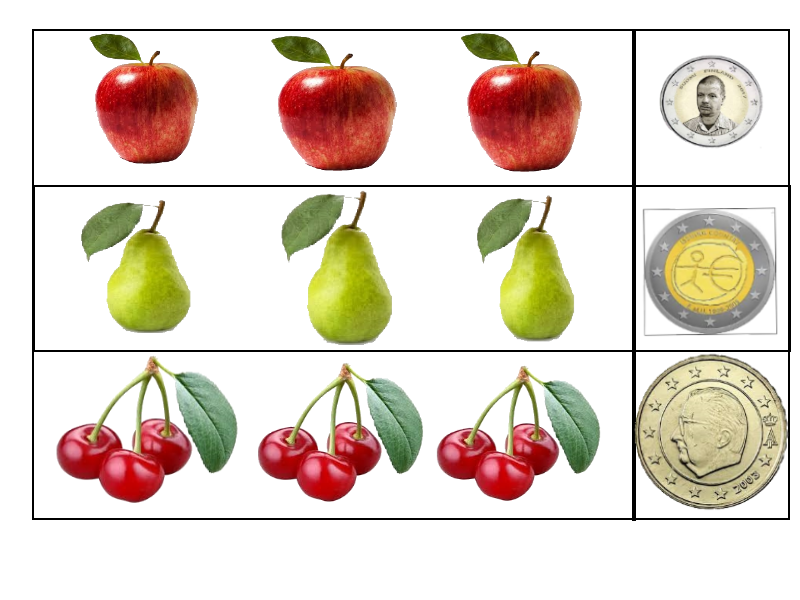
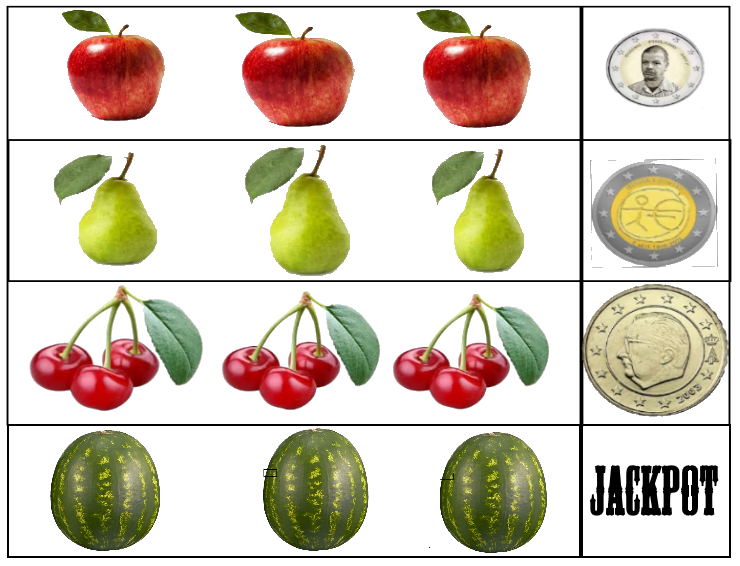
muutoksii

diff --git a/hedelmäpeli/skriptit.js b/hedelmäpeli/skriptit.js
@@ -1,48 +1,68 @@
-var rahat = 50;
+var rahat = 150;
 var slots = [0,0,0];
-
 var images = [
-    "omena.png",
-    "päärynä.png",
-    "kirsikka.png"];
+"omena.png",
+"melooni.png",
+"päärynä.png",
+"kirsikka.png",];
 
-function slot() {
-    return Math.floor(Math.random() * 3);
+
+function updateUi(){
+    document.getElementById("rahat").innerHTML = rahat;
 }
 
-function voitto(slot1, slot2, slot3) {
+
+function slot() {
+    return Math.floor(Math.random() * images.length);
+}
+
+function voitto(slot1, slot2, slot3){
     if (slot1 == slot2 && slot2 == slot3) {
-    rahat = rahat + 5;
-    } else {
-        rahat = rahat-1;
+        if (slot1 == 0) {
+            rahat = rahat + 100;
+        } else if(slot1 == 1) {
+            rahat = rahat + 100;
+        } else if(slot1 == 2) {
+            rahat = rahat + 100;
+        } else if (slot1 == 3) {
+            rahat = rahat + 100;
+        }
+    
     }
-    return rahat;
+
+    updateUi();
 }
 
 
 function pelaa() {
 
-    var n1 = slot();
-    var n2 = slot();
-    var n3 = slot();
+    rahat = rahat-1;
+
+    slots[0] = slot();
+    slots[1] = slot();
+    slots[2] = slot();
+
     if (rahat < 1) {
         return;
     }
-      
+
     var s1 = document.getElementById("slot1");
     var s2 = document.getElementById("slot2");
     var s3 = document.getElementById("slot3");
     
-    s1.src = "img/"+images[n1];
-    s2.src = "img/"+images[n2];
-    s3.src = "img/"+images[n3];
+    s1.src = "img/"+images[slots[0]];
+    s2.src = "img/"+images[slots[1]];
+    s3.src = "img/"+images[slots[2]];
 
-    document.getElementById("rahat").innerHTML = voitto(n1, n2, n3);
+    voitto(slots[0],slots[1], slots[2])
+    
 
+    updateUi();
+    
 }
 
 function lukitus(j) {
-    
+
     if (j.id == "lukko1") {
         if (lukko1 == 0) {
             lukko1 = 1;

diff --git a/hedelmäpeli/index.html b/hedelmäpeli/index.html
@@ -77,7 +77,7 @@
         }
     </style>
 </head>
-<body>
+<body onload="updateUi();">
     <div class="otsikko">HEDELMÄPELI</div>
     
     <button class="button" id="pelaa" onclick="pelaa()">Click</button>
@@ -87,7 +87,7 @@
         <img id="slot1" src="img/kirsikka.png" height="120px">
         <img id="slot2" src="img/omena.png" height="120px">
         <img id="slot3" src="img/päärynä.png" height="120px">
-
+        
     <br><br>
         <input type="image" onclick="" src="img/lukitus1.png" height="120px" width="120px">
         <input type="image" onclick="" src="img/lukitus1.png" height="120px" width="120px">
